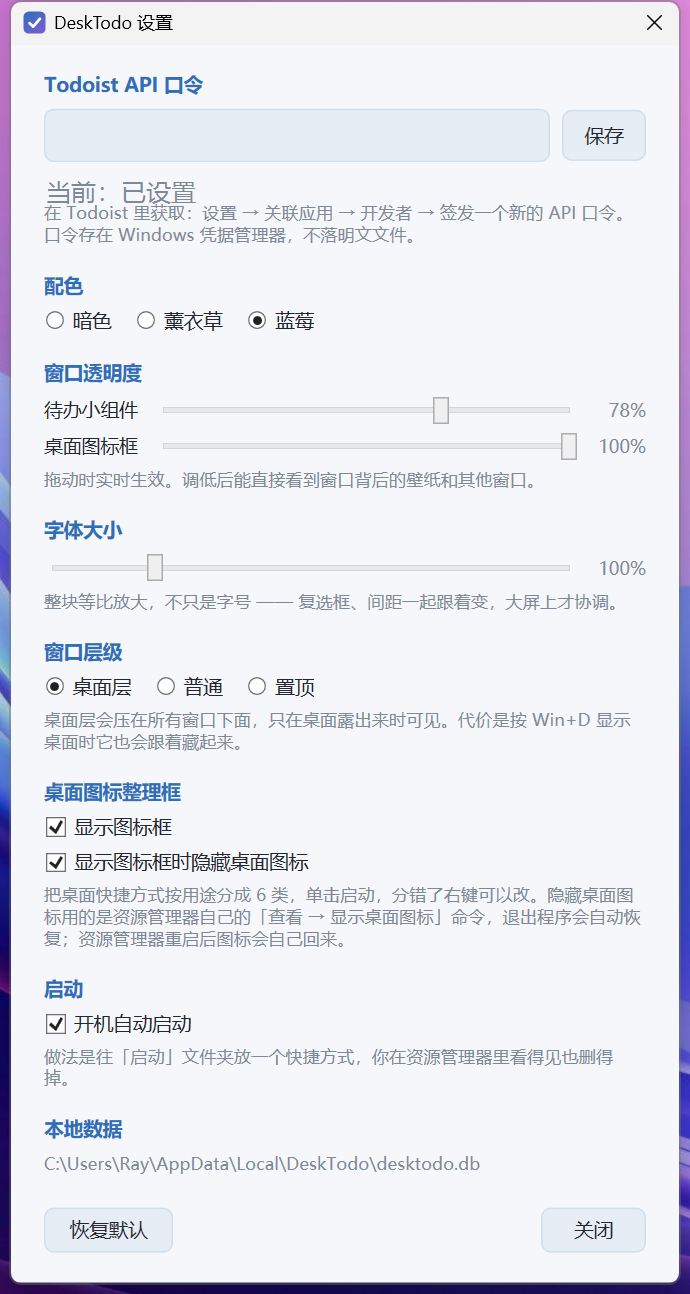
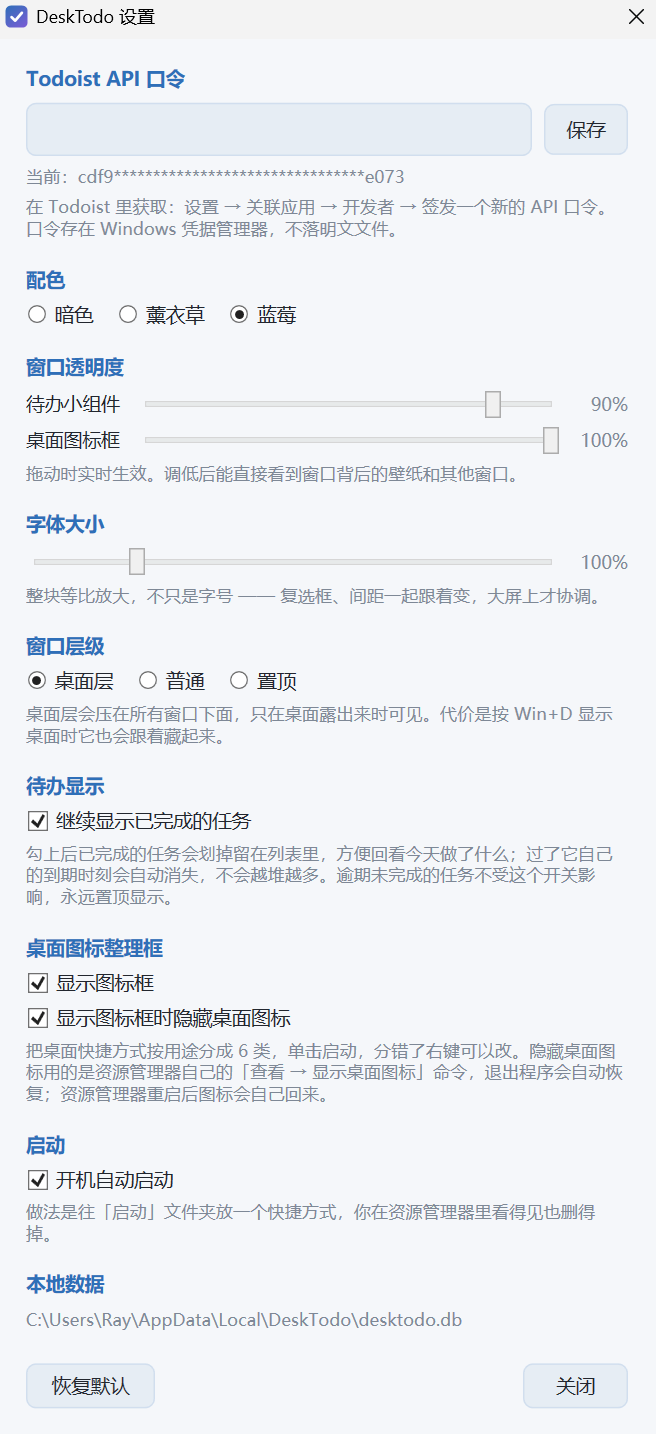
1.0.2：逾期任务不再消失，新增已完成任务显示开关
过期未完成的任务之前完全不显示，日子一过就从面板上无声消失 ——
对待办工具来说这是最不该有的问题。现在区间包含今天时置顶一个
红色的「逾期」分组。

同时新增设置项「继续显示已完成的任务」，并修掉默认显示明天、
跨零点不翻页、安装包泄漏本机源码路径三个问题。

diff --git a/CHANGELOG.md b/CHANGELOG.md
@@ -2,6 +2,31 @@
 
 本项目的版本号遵循 `主版本.次版本.修订号`。
 
+## [1.0.2] — 2026-08-26
+
+### 逾期任务不再消失（重要）
+
+- **过期未完成的任务之前完全不显示**。日子一过，没做完的事就从面板上无声消失了 ——
+  对一个待办工具来说这是最不该有的问题。现在区间包含今天时，
+  列表最上方会固定出现一个红色的「逾期 · N 项未完成」分组，按到期日排序
+- 翻到不包含今天的日期区间时，逾期分组不出现
+
+### 新增：已完成任务的显示开关
+
+- 设置 → **待办显示 → 继续显示已完成的任务**（默认开启）
+- 勾上时已完成的任务会划掉留在列表里，方便回看今天做了什么；
+  **过了任务自己的到期时刻会自动消失**，不会越堆越多。全天任务算到当天结束
+- 关掉则已完成的任务立即不再显示。逾期未完成的任务不受这个开关影响
+
+### 修复
+
+- **默认显示的是明天而不是今天**。新安装打开后，今天到期的任务不在显示范围内，
+  看起来就像没有同步成功
+- **跨零点不再停在昨天**。程序挂一整天或一整周时，第二天面板上的日期区间
+  和「今天 / 明天」这些标签会一起自动翻页
+- **安装包不再包含本机源码路径**。调试符号文件里编进了开发机的完整目录结构，
+  现已改为相对路径（崩溃日志的行号不受影响）
+
 ## [1.0.1] — 2026-08-25
 
 ### 覆盖安装

diff --git a/README.md b/README.md
@@ -100,6 +100,10 @@ DeskTodo 只做一件事：**把你的待办，好好地呈现在 Windows 桌面
 ### 待办小组件
 
 - **周期切换** —— 1 天 / 3 天 / 1 周 / 1 个月，跨多天时按日期分组
+- **逾期不丢** —— 过期未完成的任务会被收进一个红色的「逾期」分组固定置顶，
+  不会随着日子往前走自己消失
+- **已完成自动清场** —— 完成的任务划掉留在列表里，过了它自己的到期时刻自动消失；
+  也可以在设置里关掉，完成即隐藏
 - **自然语言添加** —— 直接打「下周三下午5点买花 @生活 p1」，日期、标签、优先级由 Todoist 解析，
   和你在手机上打字的习惯完全一致
 - **子任务进度** —— 显示 `0/2` 并可展开勾选
